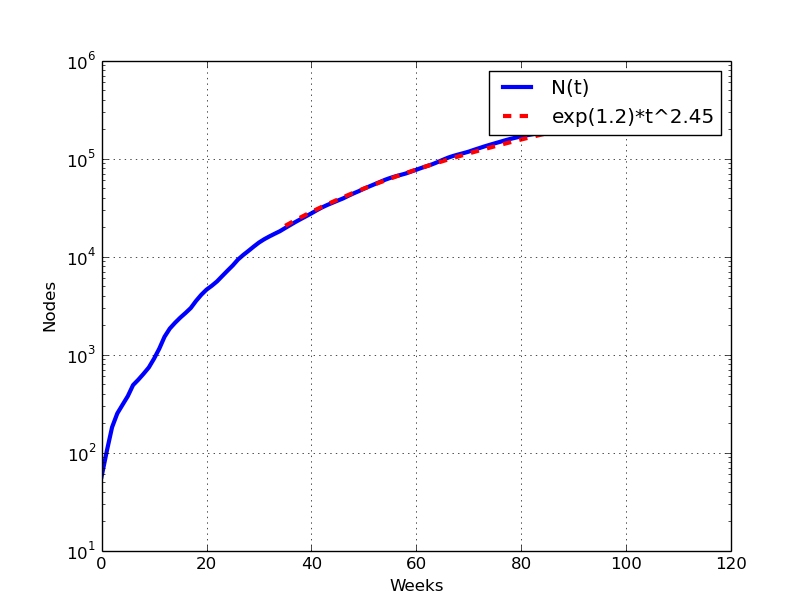
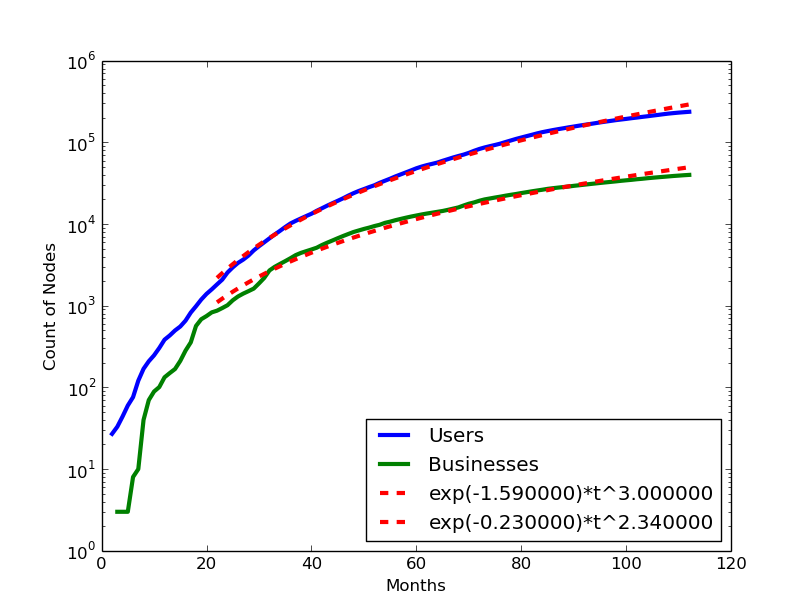
wip

diff --git a/stats.py b/stats.py
@@ -176,35 +176,39 @@ def nodes_evolution(full_graph, max_year=2014):
       of E(t) vs N(t). The it plots the time evolution of their ration """
     nodes,edges,users,busin = nodes_and_edges_by_time(full_graph,max_year)
 
-    # Keep nodes and edges with count > 1
-    nodes = nodes[4::]
-    edges = edges[4::]
-
     ## Fit curve on N(t) = beta[0]*log(t) + beta[1]
-    time_start = len(nodes)/3
-    t = range(len(nodes))
-    time = t[time_start::]
-    nodes2 = nodes[time_start::]
-    onez = np.ones((len(time),1))
+    time_start = len(nodes)/5
+    time = range(time_start, len(nodes))
 
-    # solve linear regression
-    lgt = np.vstack((np.log(time),onez.transpose())).transpose()
-    lgy = np.log(nodes2)
-    XX = np.dot(lgt.transpose(),lgt)
-    Xb = np.dot(lgt.transpose(),lgy)
-    beta = np.linalg.solve(XX,Xb)
+    def get_approx(time, nodes):
+        onez = np.ones((len(time),1))
 
-    nodes_hat = np.multiply(np.power(time,beta[0]),np.exp(beta[1]))
-    plt.plot(nodes,'b-',linewidth=3.)
-    plt.plot(time,nodes_hat,'r--',linewidth=3.)
+        # solve linear regression
+        lgt = np.vstack((np.log(time),onez.transpose())).transpose()
+        lgy = np.log(nodes)
+        XX = np.dot(lgt.transpose(),lgt)
+        Xb = np.dot(lgt.transpose(),lgy)
+        beta = np.linalg.solve(XX,Xb)
+
+        nodes_hat = np.multiply(np.power(time,beta[0]),np.exp(beta[1]))
+        return nodes_hat, beta
+
+    users_hat, betau = get_approx(time, users[time_start::])
+    busin_hat, betab = get_approx(time, busin[time_start::])
+
+    plt.plot(users, 'b-', linewidth=3., label="Users")
+    plt.plot(busin, 'g-', linewidth=3., label="Businesses")
+
+    labelau = "exp(%f)*t^%f" % tuple(map(lambda x: round(x, 2), reversed(betau)))
+    plt.plot(time, users_hat, 'r--', linewidth=3., label=labelau)
+    labelab = "exp(%f)*t^%f" % tuple(map(lambda x: round(x, 2), reversed(betab)))
+    plt.plot(time, busin_hat, 'r--', linewidth=3., label=labelab)
+    
     plt.yscale('log')
-    plt.grid(True)
-    plt.xlabel('Weeks')
-    plt.ylabel('Nodes')
-    beta1 = int(beta[1]*100)/100.
-    beta0 = int(beta[0]*100)/100.
-    curve = 'exp('+str(beta1) + ')*t^' + str(beta0)
-    plt.legend(('N(t)',curve))
+    plt.xlabel('Months')
+    plt.ylabel('Count of Nodes')
+    #curve = 'exp('+str(beta1) + ')*t^' + str(beta0)
+    plt.legend(loc=4)
     plt.show()
 
 
@@ -287,16 +291,13 @@ def nodes_and_edges_by_time(full_graph, max_year=2014,plots=False):
 
     return (nodes,edges,nusers,nbusin)
 
-def diam_by_time(graph, years=[]):
-    diamsz = {}
+def diam_by_time(full_graph, min_year=2005, max_year=2014):
+    diamsz = []
 
-    for year in years:
-        print('> Computing year %d' % year)
-        ng = get_subgraph_by_date(graph, lambda x: x < str(year+1) + '-01-01')
-        diamsz[year] = snap.GetBfsFullDiam(ng, 20)
+    for users, busin, graph in generate_all_graphs(full_graph, min_year=min_year, max_year=max_year):
+        diamsz.append(snap.GetBfsFullDiam(graph, 40))
 
-    yearstr = [str(y) for y in years]
-    plt.plot(yearstr, diamsz.values())
+    plt.plot(diamsz)
     plt.xlabel('Year')
     plt.ylabel('Diameter')
     plt.show()

diff --git a/graphutils.py b/graphutils.py
@@ -43,9 +43,9 @@ def get_dates(min_year=2004, max_year=2014):
     dates.insert(0, '2000-01-01')
     return dates
 
-def generate_all_generators(full_graph, max_year=2014,verbose=False):
+def generate_all_generators(full_graph, min_year=2004, max_year=2014, verbose=False):
     sortednodes, sortededges = get_sorted_edges_nodes(full_graph)
-    dates = get_dates(max_year=max_year)
+    dates = get_dates(min_year=min_year, max_year=max_year)
 
     for idate in range(1, len(dates)):
         # criterion of fetching only dates in the right month
@@ -57,9 +57,9 @@ def generate_all_generators(full_graph, max_year=2014,verbose=False):
             print("> Yield edges and nodes until date %s" % dates[idate])
         yield curnodes, curedges, criterion
 
-def generate_all_graphs(full_graph, detailed=False, max_year=2014):
+def generate_all_graphs(full_graph, detailed=False, min_year=2004, max_year=2014):
     graph = get_empty_graph()
-    for curnodes, curedges, criterion in generate_all_generators(full_graph, max_year):
+    for curnodes, curedges, criterion in generate_all_generators(full_graph, min_year, max_year):
         # updating graph
         if not detailed:
             users, busin = add_nodes_and_edges(full_graph, graph, criterion, curnodes=curnodes, curedges=curedges)
@@ -116,7 +116,8 @@ def add_nodes_and_edges(full_graph, partial_graph, criterion=lambda x: x < '2010
             partial_graph.AddStrAttrDatN(new_node,date,cst.ATTR_NODE_CREATED_DATE)
         elif curnodes is not None:
             print "Node not created", nodeId
-
+    
+    npassed = 0
     for edgeId, srcId, dstId in edgegen():
         date = full_graph.GetStrAttrDatE(edgeId,cst.ATTR_EDGE_REVIEW_DATE)
         if criterion(date) and partial_graph.IsNode(srcId) and partial_graph.IsNode(dstId) \
@@ -125,7 +126,9 @@ def add_nodes_and_edges(full_graph, partial_graph, criterion=lambda x: x < '2010
             new_edge = partial_graph.AddEdge(srcId, dstId)
             partial_graph.AddStrAttrDatE(new_edge,date,cst.ATTR_EDGE_REVIEW_DATE)
         elif curedges is not None and not (criterion(date) and partial_graph.IsNode(srcId) and partial_graph.IsNode(dstId)):
-            print "Edge not created for weird reason", edgeId 
+            npassed += 1
+
+    print "Edges not created for weird reason", npassed 
 
     return (users_added,busin_added)
 
